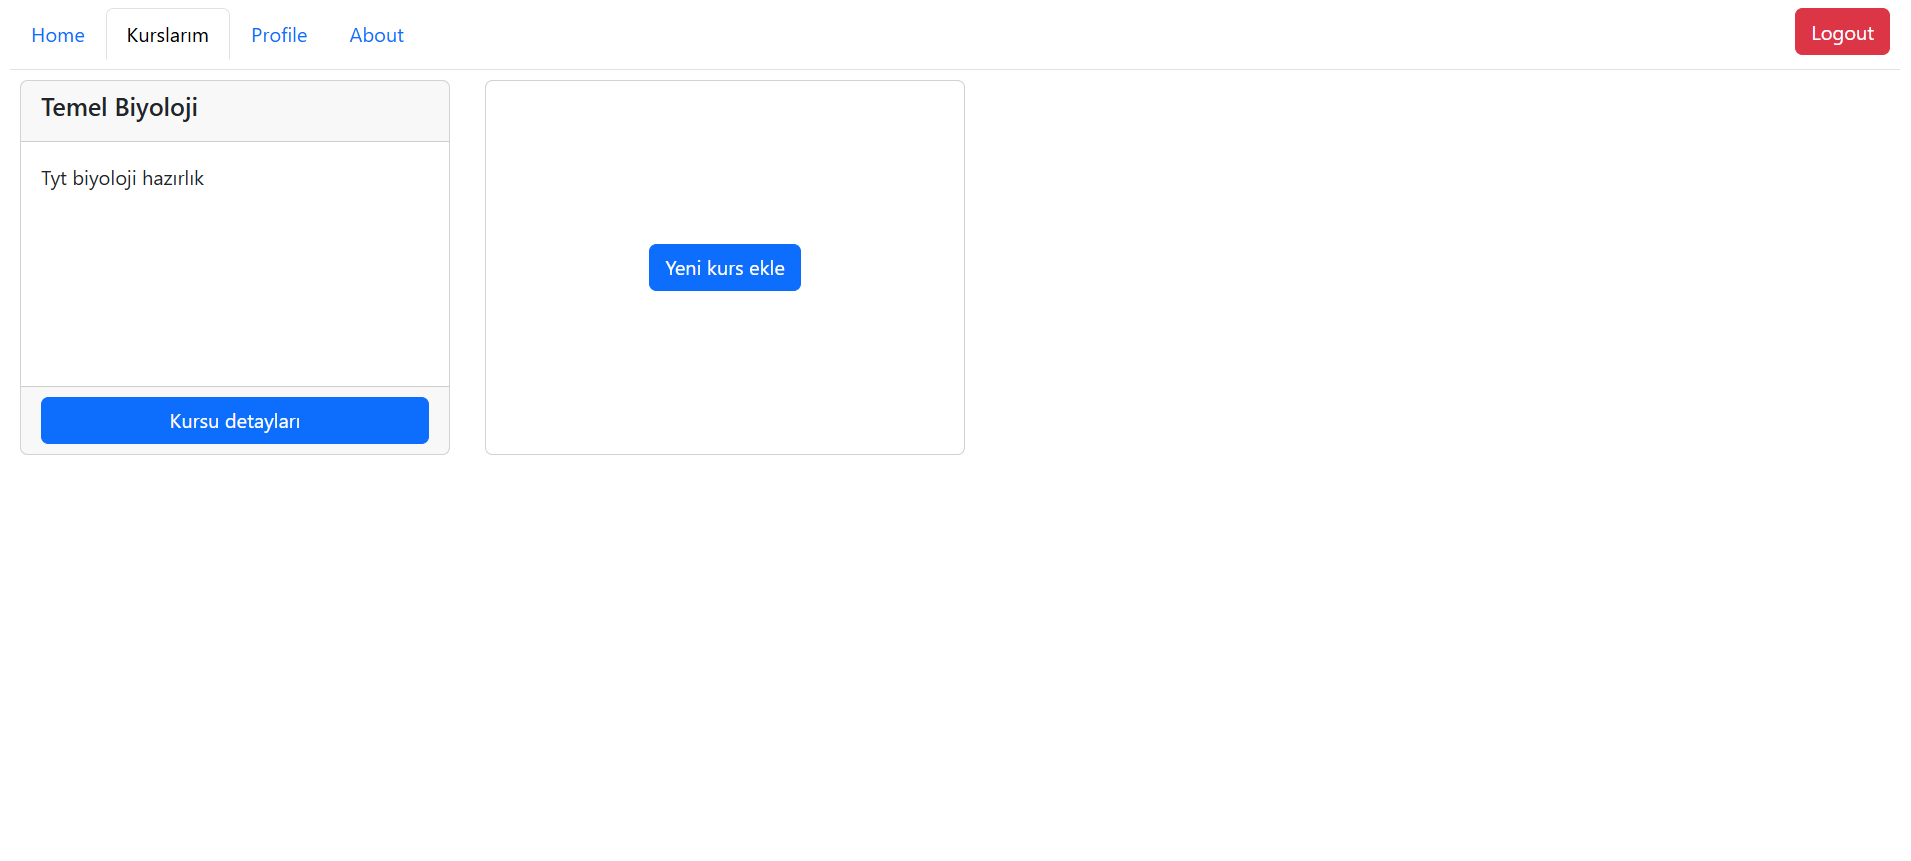
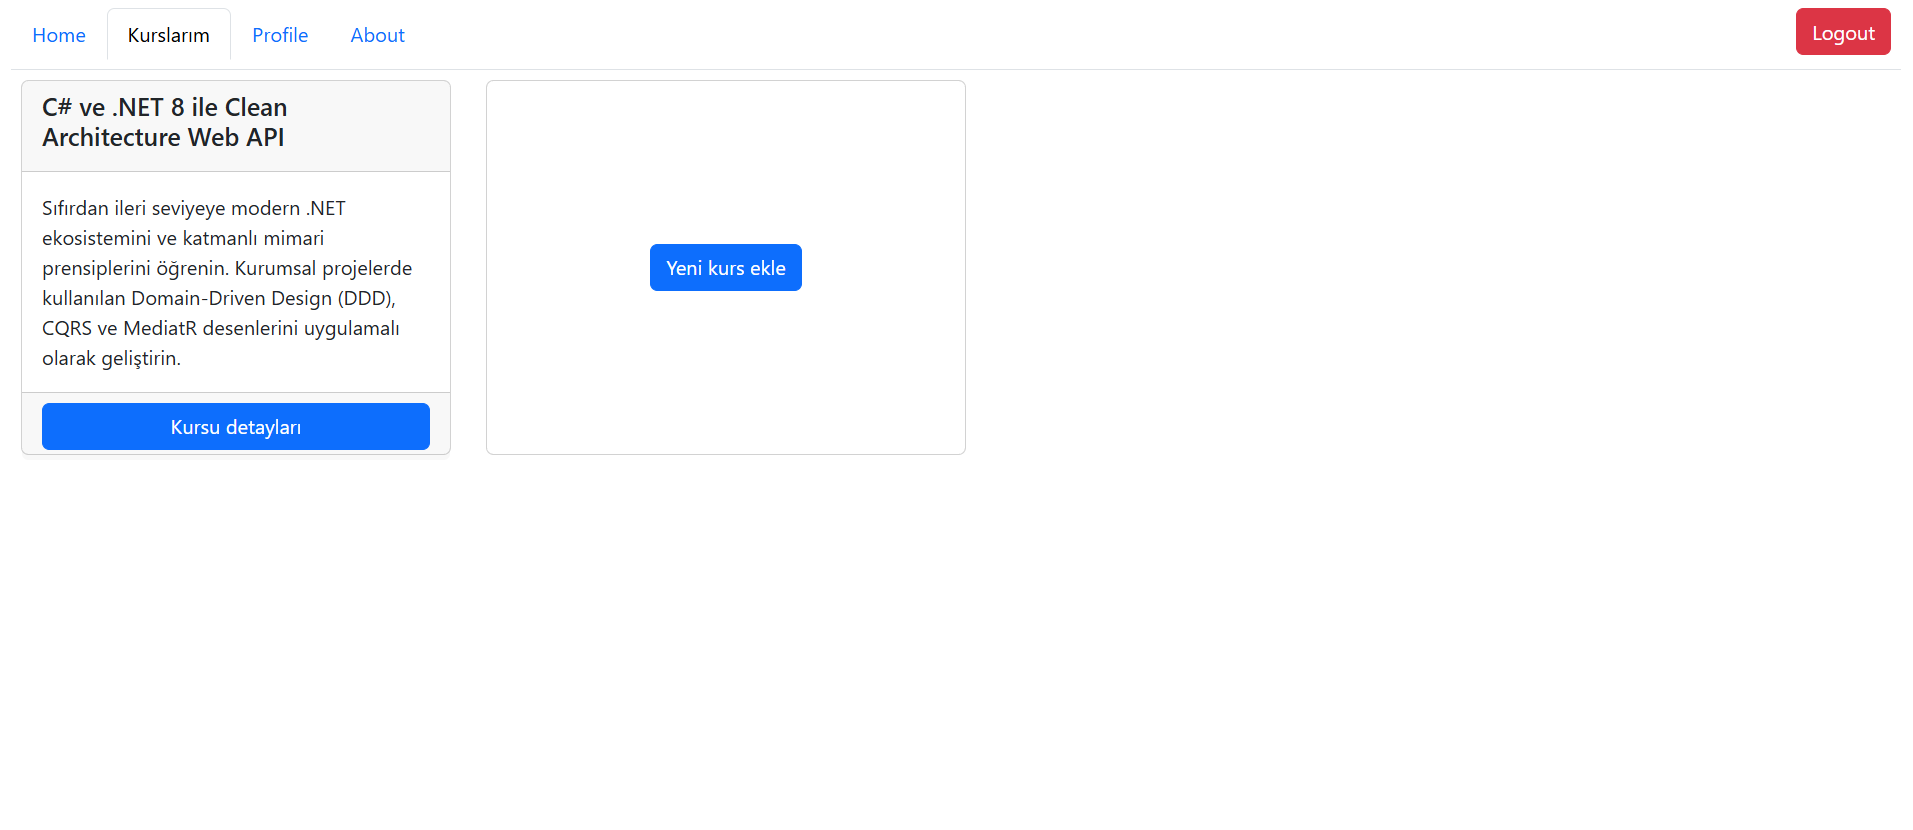
fix(client): fix client readme pictures

diff --git a/SchoolSystemClient/README.md b/SchoolSystemClient/README.md
@@ -28,7 +28,7 @@ Bu proje, Okul Yönetim Sistemi projesinin Angular kullanılarak geliştirilmiş
   - Yeni kurs ekleme kartı ve dinamik yönlendirmesi.
   <p align="center">
     <img src="readme-assets/teachers-courses.png" width="500" height="300">
-    <img src="readme-assets/course-control-panel.png" width="500" height="300">
+    <img src="readme-assets/course-control.png" width="500" height="300">
   </p>
 - **Profil & Detay Sayfaları:** Kurs içerikleri ve eğitmen bilgilerini görüntüleme.
 
